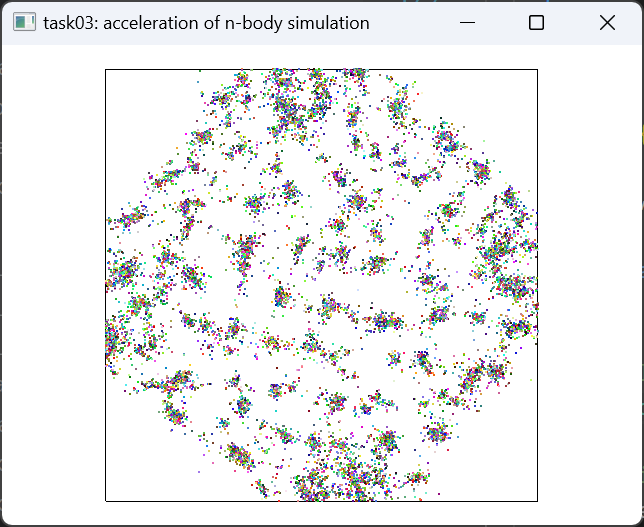
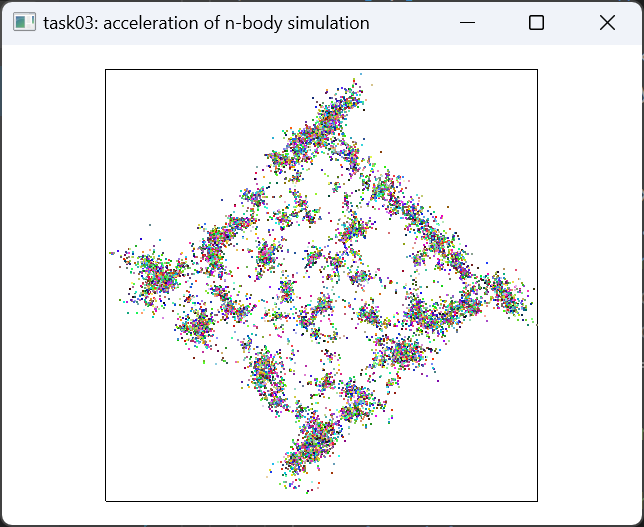
redo the calculation.

diff --git a/task03/main.cpp b/task03/main.cpp
@@ -173,7 +173,8 @@ void set_force_accelerated(
         } else { // far field approximation
           // write a few lines of code here to compute the force from far grid.
           // use the center for the gravity of the grid : `acc.grid2cg[jy * num_div + jx]`
-          particles[ip].force += acc.grid2cg[jy * num_div + jx];
+          unsigned int np = acc.grid2idx[jy * num_div + jx + 1] - acc.grid2idx[jy * num_div + jx];
+          particles[ip].force += np * gravitational_force(acc.grid2cg[jy * num_div + jx] - particles[ip].pos);
         }
       }
     }
@@ -188,7 +189,7 @@ int main() {
   constexpr unsigned int num_div = 30;
 
   // particle information
-  std::vector<Particle> particles(20000); // change the number of particles here
+  std::vector<Particle> particles(5000); // change the number of particles here
   for (auto &p: particles) {
     // initialization
     p.pos.setRandom();

diff --git a/task03/README.md b/task03/README.md
@@ -77,9 +77,9 @@ Record the computation time by filling the table below.
 
 | #particle | time |
 | --- | --- |
-| 5000 | 3304ms |
-| 10000 | 5403ms |
-| 20000 | 12552ms |
+| 5000 | 3956ms |
+| 10000 | 8462ms |
+| 20000 | 20196ms |
 
 With the simulation with 20k particles, run the program for 200 steps. 
 Then save the screenshot image, overwriting `task03/problem2.png`.
